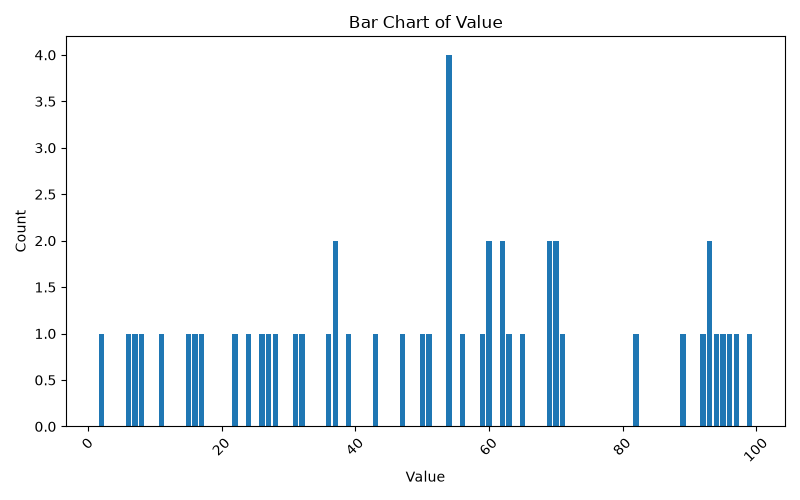
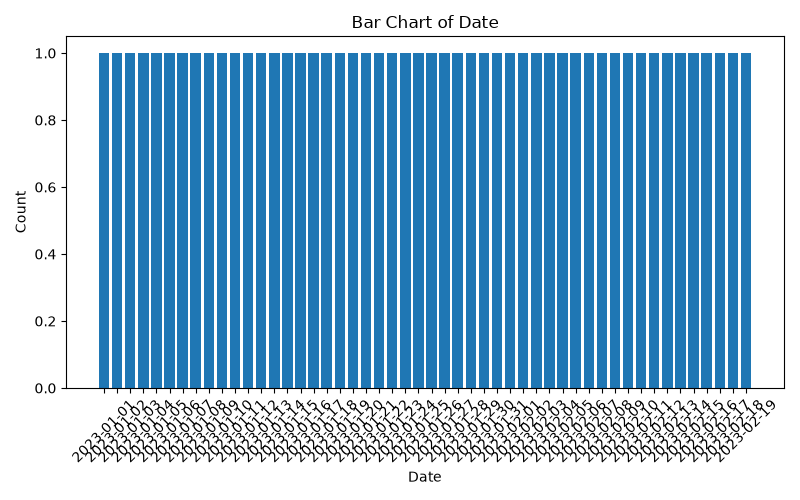
feat: add cleaned CSV download feature

diff --git a/templates/index.html b/templates/index.html
@@ -77,6 +77,12 @@
 
     <br>
 
+    <form action="/download_csv" method="get">
+        <button type="submit">Download Cleaned CSV</button>
+    </form>
+
+    <br>
+
     <form action="/show_statistics" method="post">
         <button type="submit">
             Show Statistics

diff --git a/app.py b/app.py
@@ -1,4 +1,4 @@
-from flask import Flask, render_template, request, session
+from flask import Flask, render_template, request, session, send_file
 import pandas as pd
 import matplotlib.pyplot as plt
 import seaborn as sns
@@ -511,6 +511,13 @@ def show_piechart():
                             pie_error=None,
                             piechart_image = "piechart.png")
 
+@app.route("/download_csv")
+def download_csv():
+    file_path = session.get("file_path")
+    if file_path is None:
+        return "Please upload a file first"
+
+    return send_file(file_path, as_attachment=True)
 
 if __name__ == "__main__":
     app.run(debug = True, port=5001)
